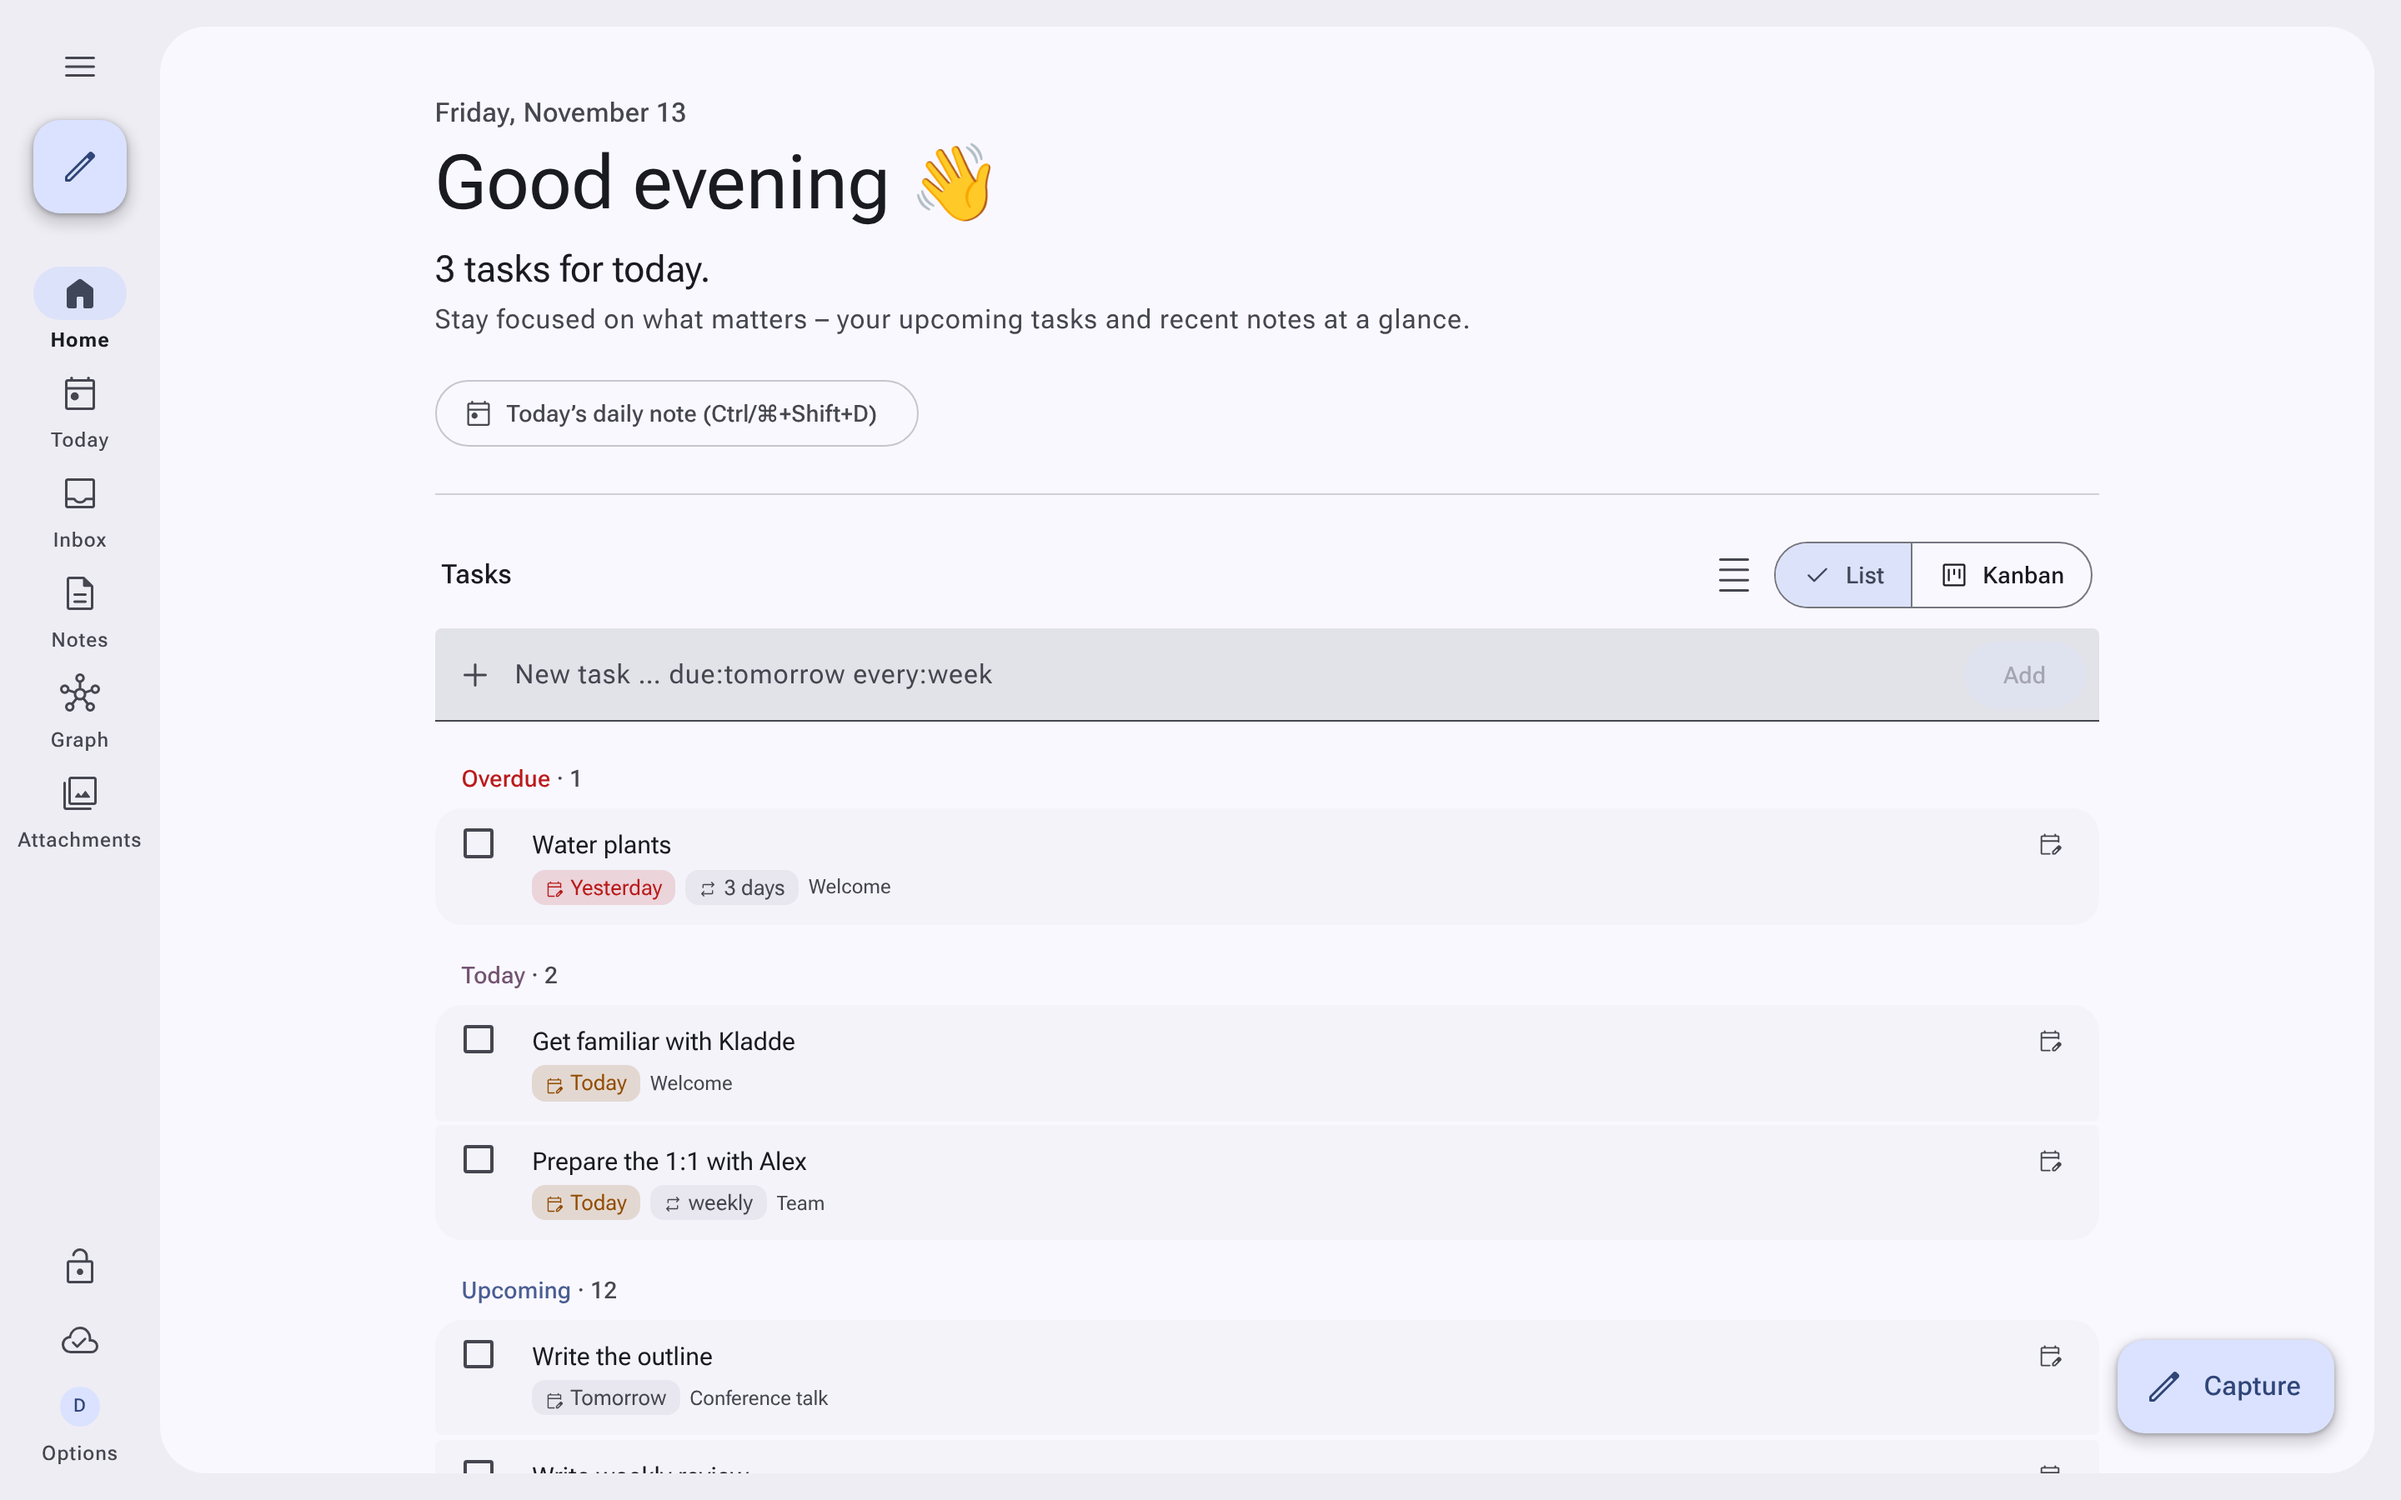
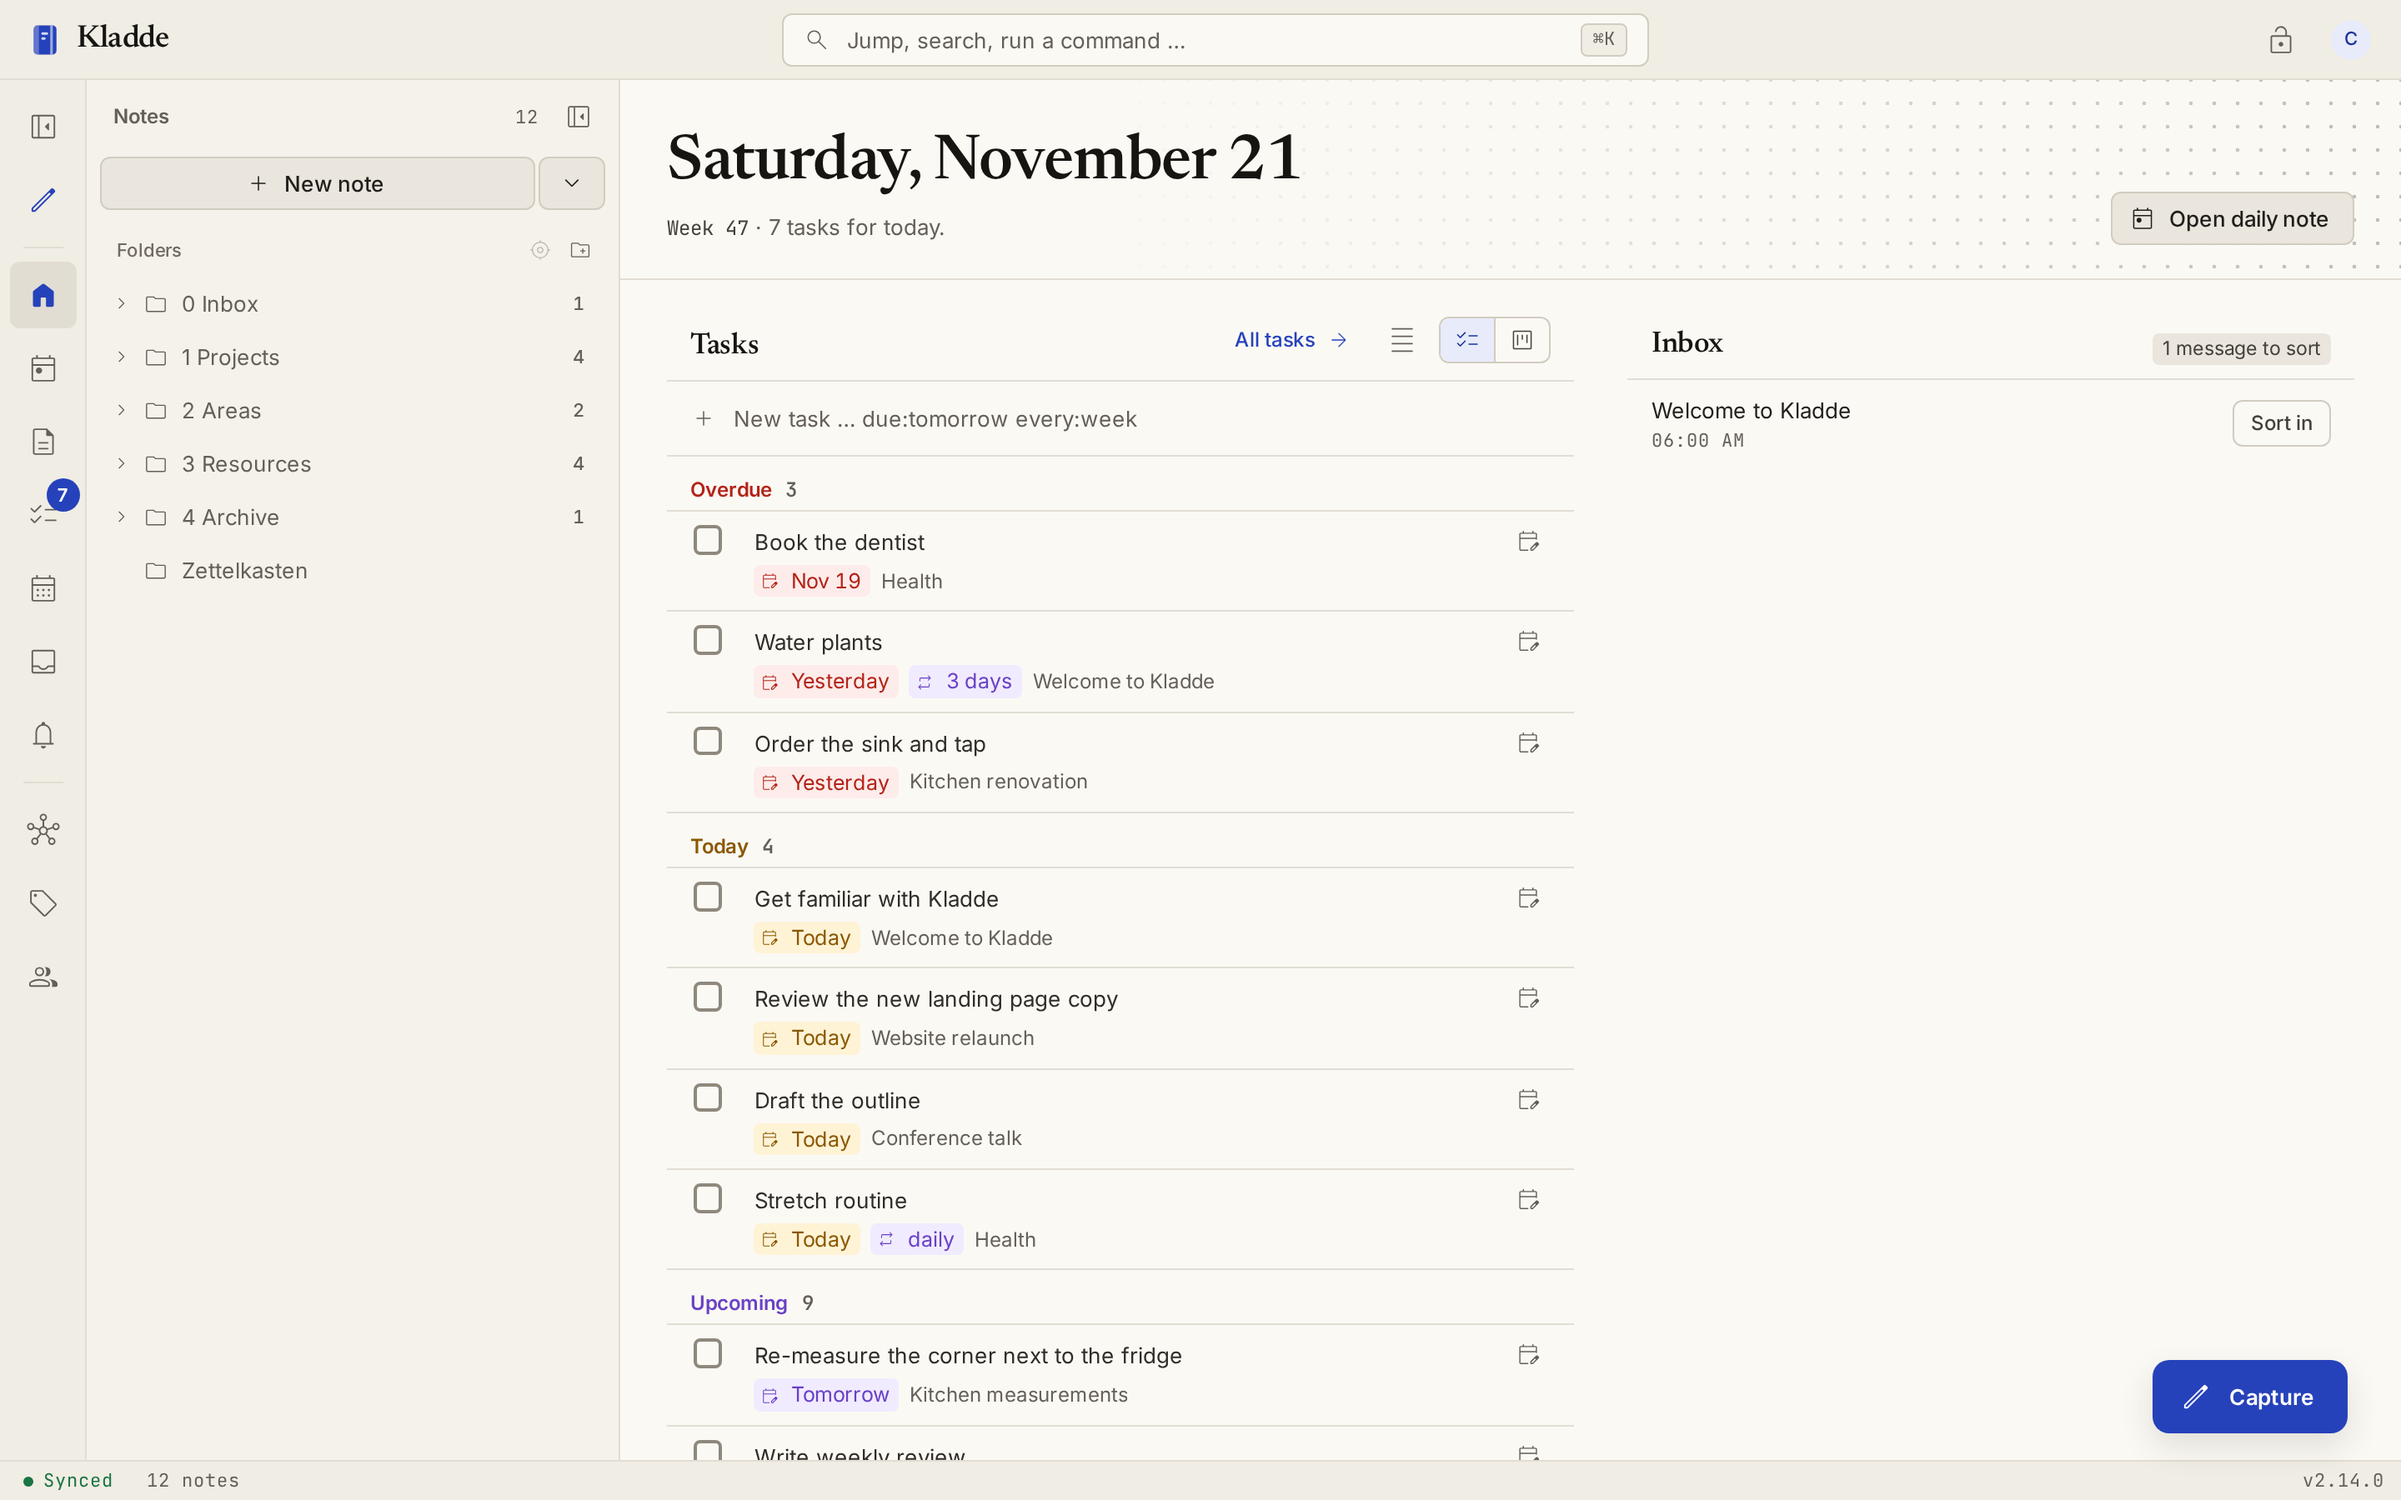
docs: retake README screenshots and social preview in the Werkbank design
Add tickets, the command palette and tabs to the README feature tables.

Claude-Session: https://claude.ai/code/session_01T4jFQA9uwpMdBNT8KV6xiv

diff --git a/README.de.md b/README.de.md
@@ -44,7 +44,8 @@
 | **Tages-, Wochen- & Monatsnotizen** | Eine Tagesnotiz pro Tag (`Strg/⌘+Shift+D`) mit Datumsnavigation und übernommenen Aufgaben; optional Wochen- (`2026-W47`, `Strg/⌘+Alt+W`) und Monatsnotizen (`2026-11`, `Strg/⌘+Alt+M`) mit eigenem Ordner, Namensschema und eigener Vorlage (`{{days}}`, `{{weeks}}` verlinken Tage und Wochen), verknüpft von Tag zu Woche zu Monat |
 | **Zettelkasten** | Zettel-Dialog mit Typ (flüchtig, Literatur mit Quelle, dauerhaft) und fester ID im Frontmatter; `[[ID]]` und `[[ID Titel]]` bleiben auch nach Umbenennen gültig. Hinweis auf unverbundene Zettel |
 | **Verknüpfen** | `[[Wikilinks]]` mit Autovervollständigung; **beim Umbenennen werden alle Links angepasst**; Rückverweise; **unverlinkte Erwähnungen** mit Knopf „Verlinken“; `#tags`; Frontmatter als Eigenschaften-Leiste |
-| **Suche & Favoriten** | Suche in der Seitenleiste (`Strg/⌘+K`), mit Pfeiltasten durch die Treffer, Enter öffnet. Favoriten (Opt-In): Stern im Notizkopf oder `Strg/⌘+D`, einklappbare Liste „Favoriten“ in der Seitenleiste (nur sichtbar, wenn es Favoriten gibt) |
+| **Suche, Befehle & Tabs** | Befehlspalette (`Strg/⌘+K`): Notizen, offene Aufgaben und Befehle in einer Liste (`>` zeigt nur Befehle). Am Desktop bekommt jede geöffnete Notiz einen Tab über dem Inhalt. Favoriten (Opt-In): Stern im Notizkopf oder `Strg/⌘+D`, einklappbare Liste „Favoriten“ in der Seitenleiste |
+| **Tickets & Meilensteine** | Opt-In unter Einstellungen → Funktionen (pro Gruppe schaltbar). „Projekt anlegen“ macht einen Ordner zum Projekt mit einem Kürzel wie `KLD`: Notizen darin sind Tickets mit fortlaufender Nummer, Status, Priorität, Meilenstein, Zuständigkeit und Aufwand, dargestellt als Board, Backlog und Roadmap. Ticketnummern (`KLD-118`) in beliebigen Notizen werden zu Status-Chips; alles bleibt reines Markdown, und KI-Assistenten arbeiten per MCP mit Tickets |
 | **Wissensnetz** | Graph aller Notizen (`/graph`, nach PARA-Rolle eingefärbt, zoom- und verschiebbar) und lokales Netz unter jeder Notiz |
 | **Versionsverlauf** | Verlauf pro Notiz mit bis zu 100 Ständen auf dem Server; Diff-Ansicht mit hinzugefügten/entfernten Zeilen (`git diff`-Stil) oder gerenderter Text; Wiederherstellung per Klick |
 | **Rezept-Import** | Rezepte per Link importieren (schema.org von Chefkoch, EatSmarter, Food-Blogs etc.) einheitlich nach `3 Ressourcen/Rezepte`: Zutaten-Tabelle, nummerierte Schritte, Quelle |

diff --git a/README.md b/README.md
@@ -46,7 +46,8 @@ The app and its UI are available in **English and German**; the guides in `docs/
 | **Daily, weekly & monthly notes** | A daily note per day (`Ctrl/⌘+Shift+D`) with date navigation and carried-over tasks; opt-in weekly (`2026-W47`, `Ctrl/⌘+Alt+W`) and monthly notes (`2026-11`, `Ctrl/⌘+Alt+M`), each with its own folder, naming pattern and template (`{{days}}`, `{{weeks}}` link the days and weeks), linked from day to week to month |
 | **Zettelkasten** | Zettel dialog with type (fleeting, literature with source, permanent) and a fixed ID in the frontmatter; `[[ID]]` and `[[ID Title]]` stay valid after renaming. Hint for unconnected Zettel |
 | **Linking** | `[[Wikilinks]]` with autocomplete; **all links are updated when you rename a note**; backlinks; **unlinked mentions** with a "Link" button; `#tags`; frontmatter as a properties bar |
-| **Search & favorites** | Sidebar search (`Ctrl/⌘+K`), arrow keys through the results, Enter opens. Favorites (opt-in): star in the note header or `Ctrl/⌘+D`, collapsible list in the sidebar |
+| **Search, commands & tabs** | Command palette (`Ctrl/⌘+K`): notes, open tasks and commands in one list (`>` lists only commands). On the desktop every open note gets a tab above the content. Favorites (opt-in): star in the note header or `Ctrl/⌘+D`, collapsible list in the sidebar |
+| **Tickets & milestones** | Opt-in under Settings → Features (switchable per group). "Make project" turns a folder into a project with a key such as `KLD`: notes in it are tickets with a running number, status, priority, milestone, assignee and estimate, shown on a board, a backlog and a roadmap. Ticket numbers (`KLD-118`) in any note become status chips; everything stays plain Markdown, and AI assistants can work with tickets over MCP |
 | **Knowledge graph** | Graph of all notes (`/graph`, colored by PARA role, zoomable and draggable) and a local graph below every note |
 | **Version history** | History per note with up to 100 versions on the server; diff view with added/removed lines (`git diff` style) or rendered text; restore with a click |
 | **Recipe import** | Import recipes by link (schema.org, e.g. from recipe sites and food blogs) into `3 Resources/Recipes`: ingredient table, numbered steps, source |
